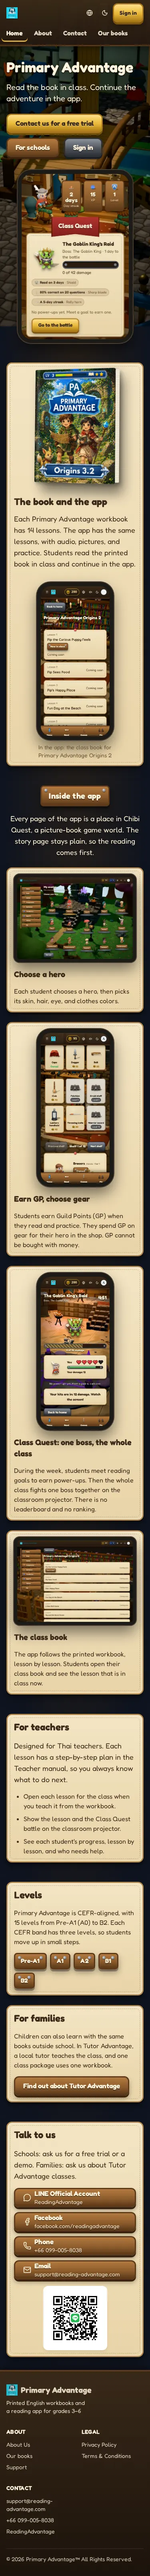
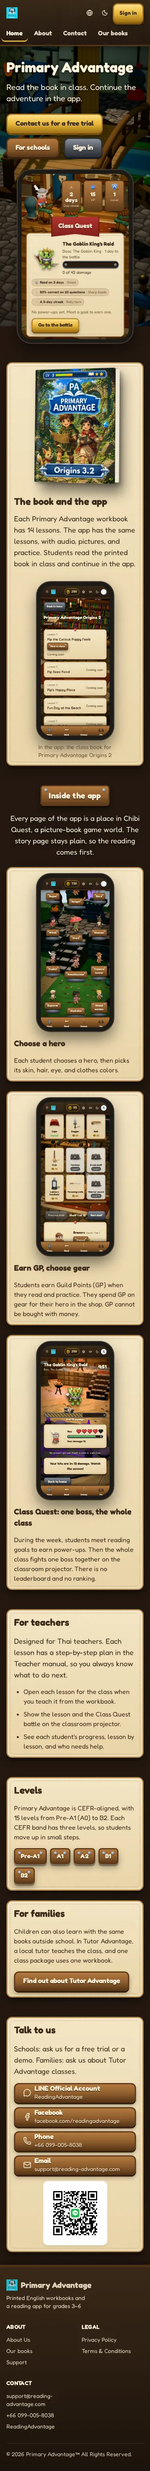
chore(measure): public pages look-check round 1 captures

diff --git a/measure/tracks/primary_public_pages_20261007/plan.md b/measure/tracks/primary_public_pages_20261007/plan.md
@@ -34,7 +34,10 @@ until the Primary cutover passes.
   - [ ] cn and tw from the contracted reviewer
 - [ ] Captures at 375 px and 1280 px, light and night, to Daniel for the look check
   - [x] 20 captures in `captures/` (status 200, no page overflow, no form, no console errors)
-  - [ ] Daniel's look check
+  - [x] Look-check round 1 (Daniel through PR, 2026-10-07): the class book block left Inside the app; the
+    shrine is a phone capture on phones (`<picture>`, 768 px); dark wood under the scenes; For schools goes
+    to `/about#schools`; the flat covers on Our books (Origins 2, 3.1, 3.2; Quest 4); captures replaced
+  - [ ] Daniel's final look check
 - [ ] Retakes with the demo seed (Word adventures, teacher dashboard) to Daniel before public use
 - [x] PR claims review of the branch diff (2026-10-07: pass; two fixes in 75105543b: Footer.tagline
   deleted, the families link uses www.reading-advantage.com)
